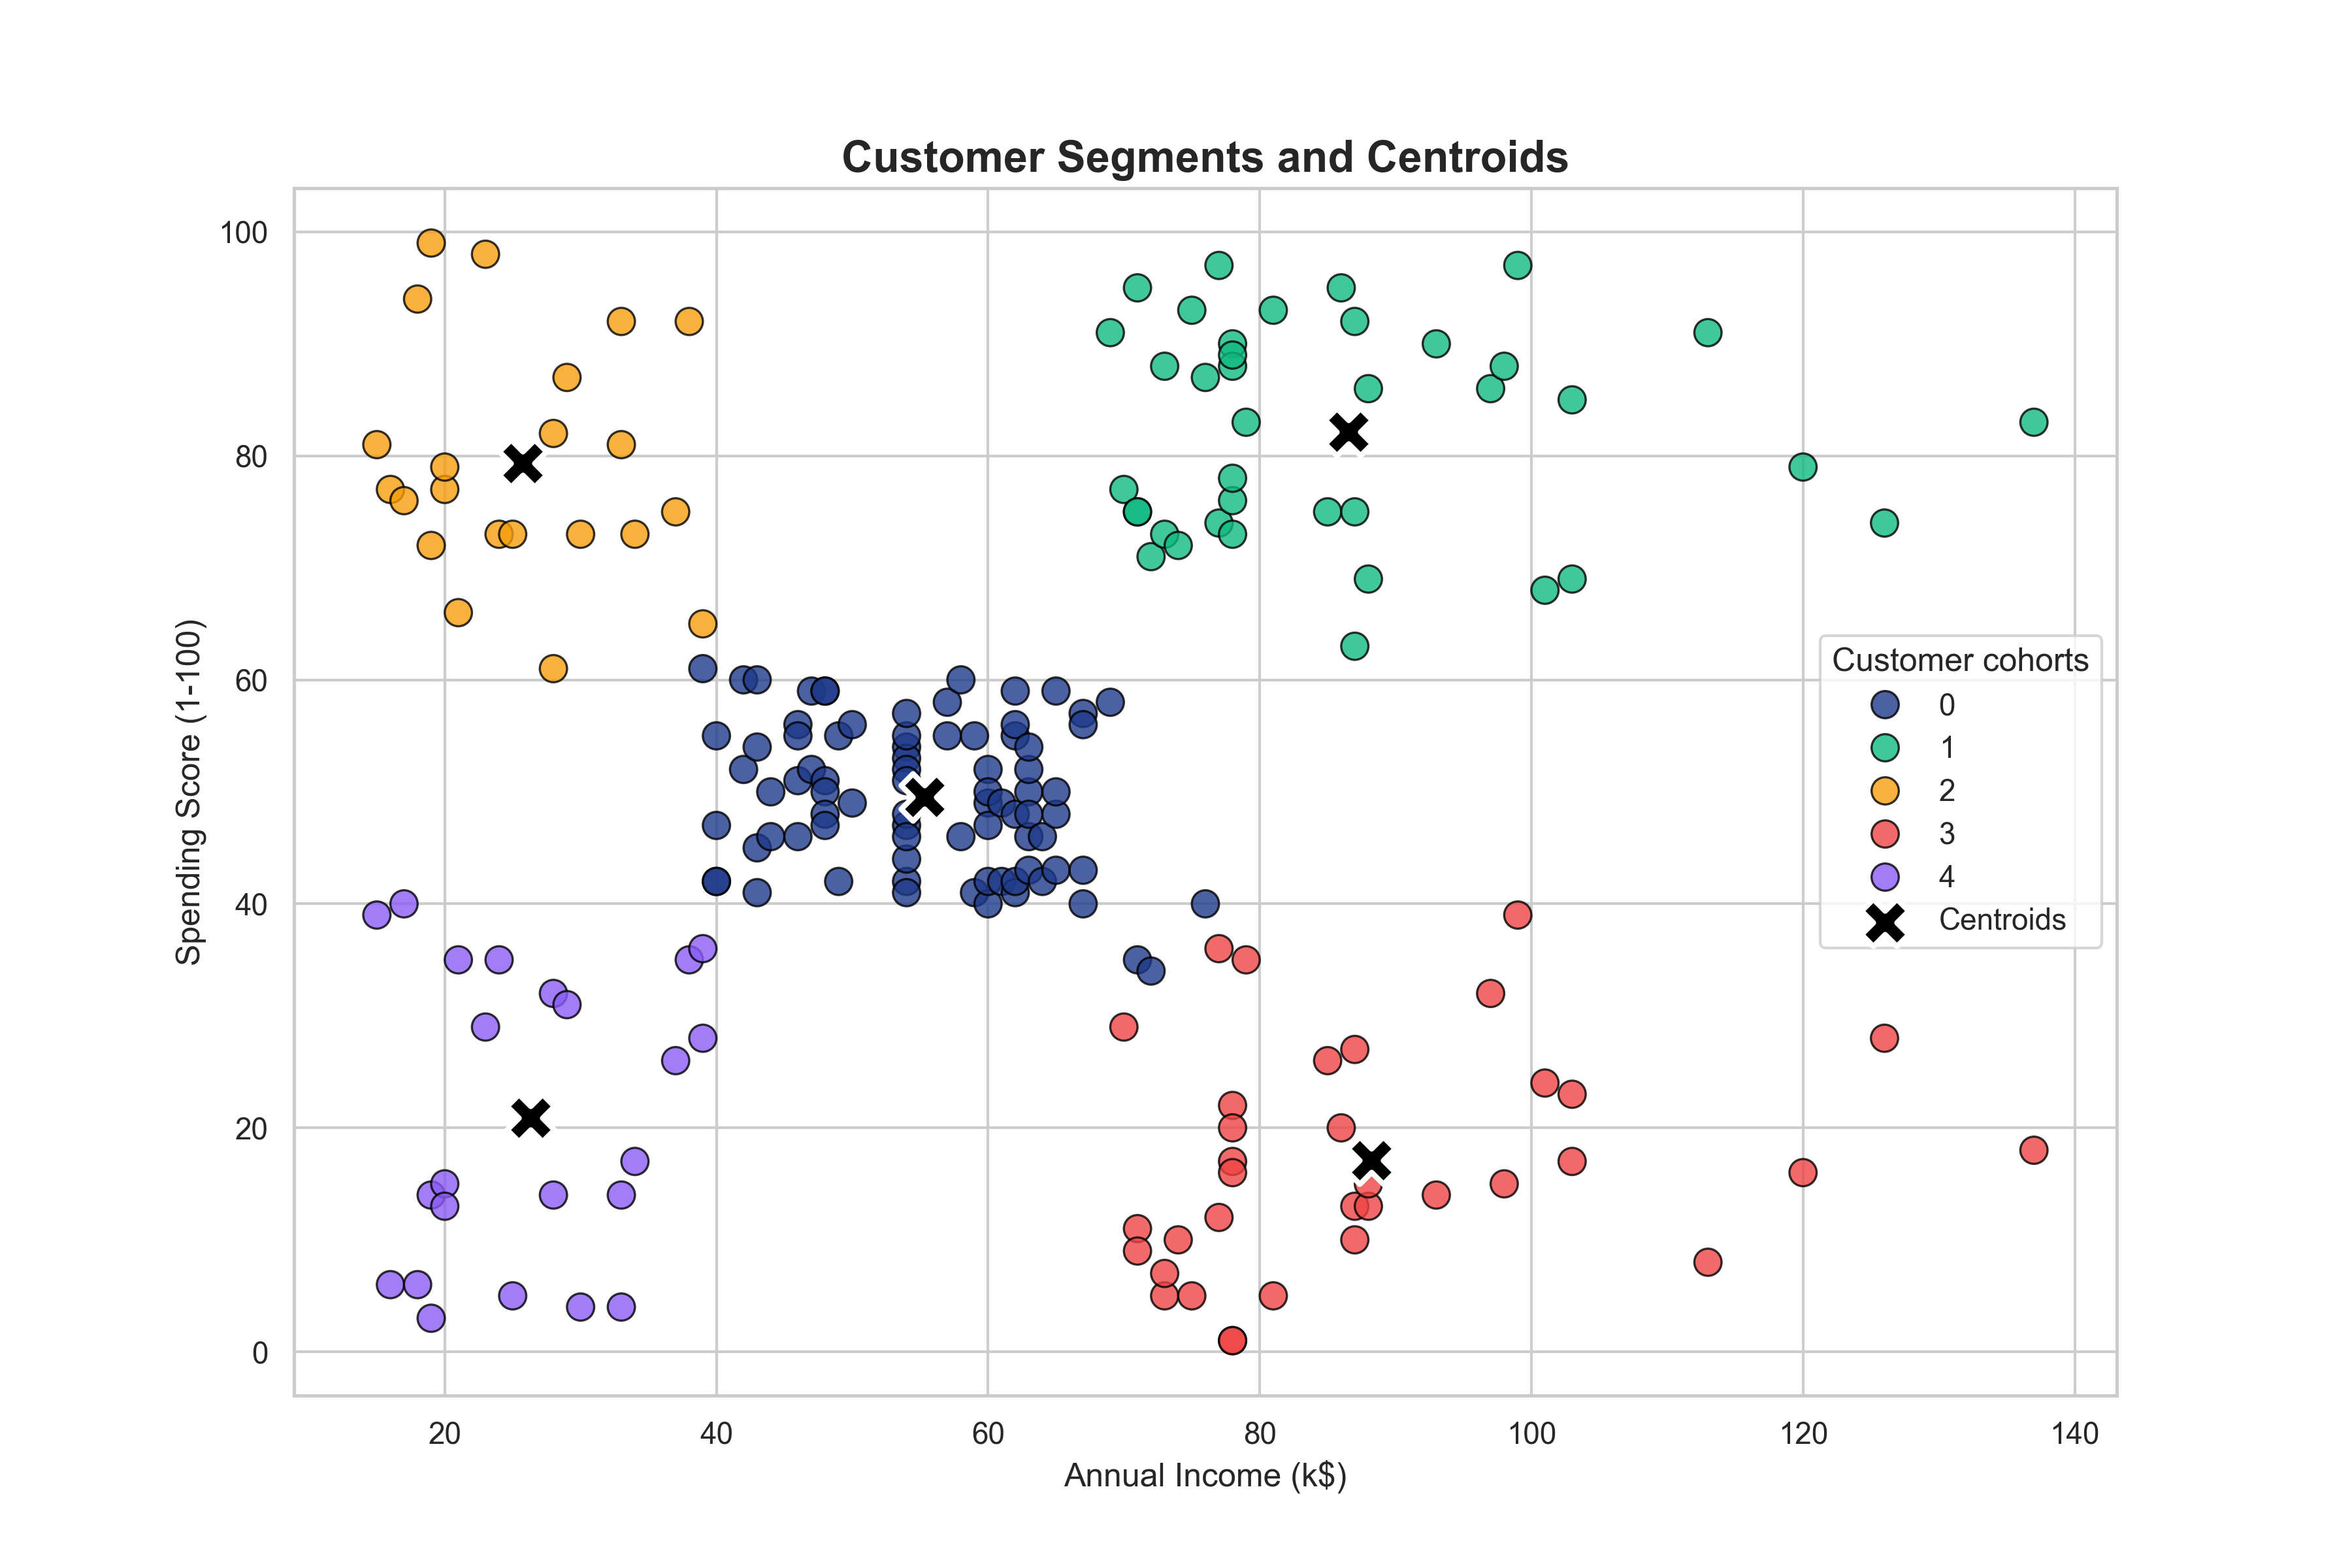
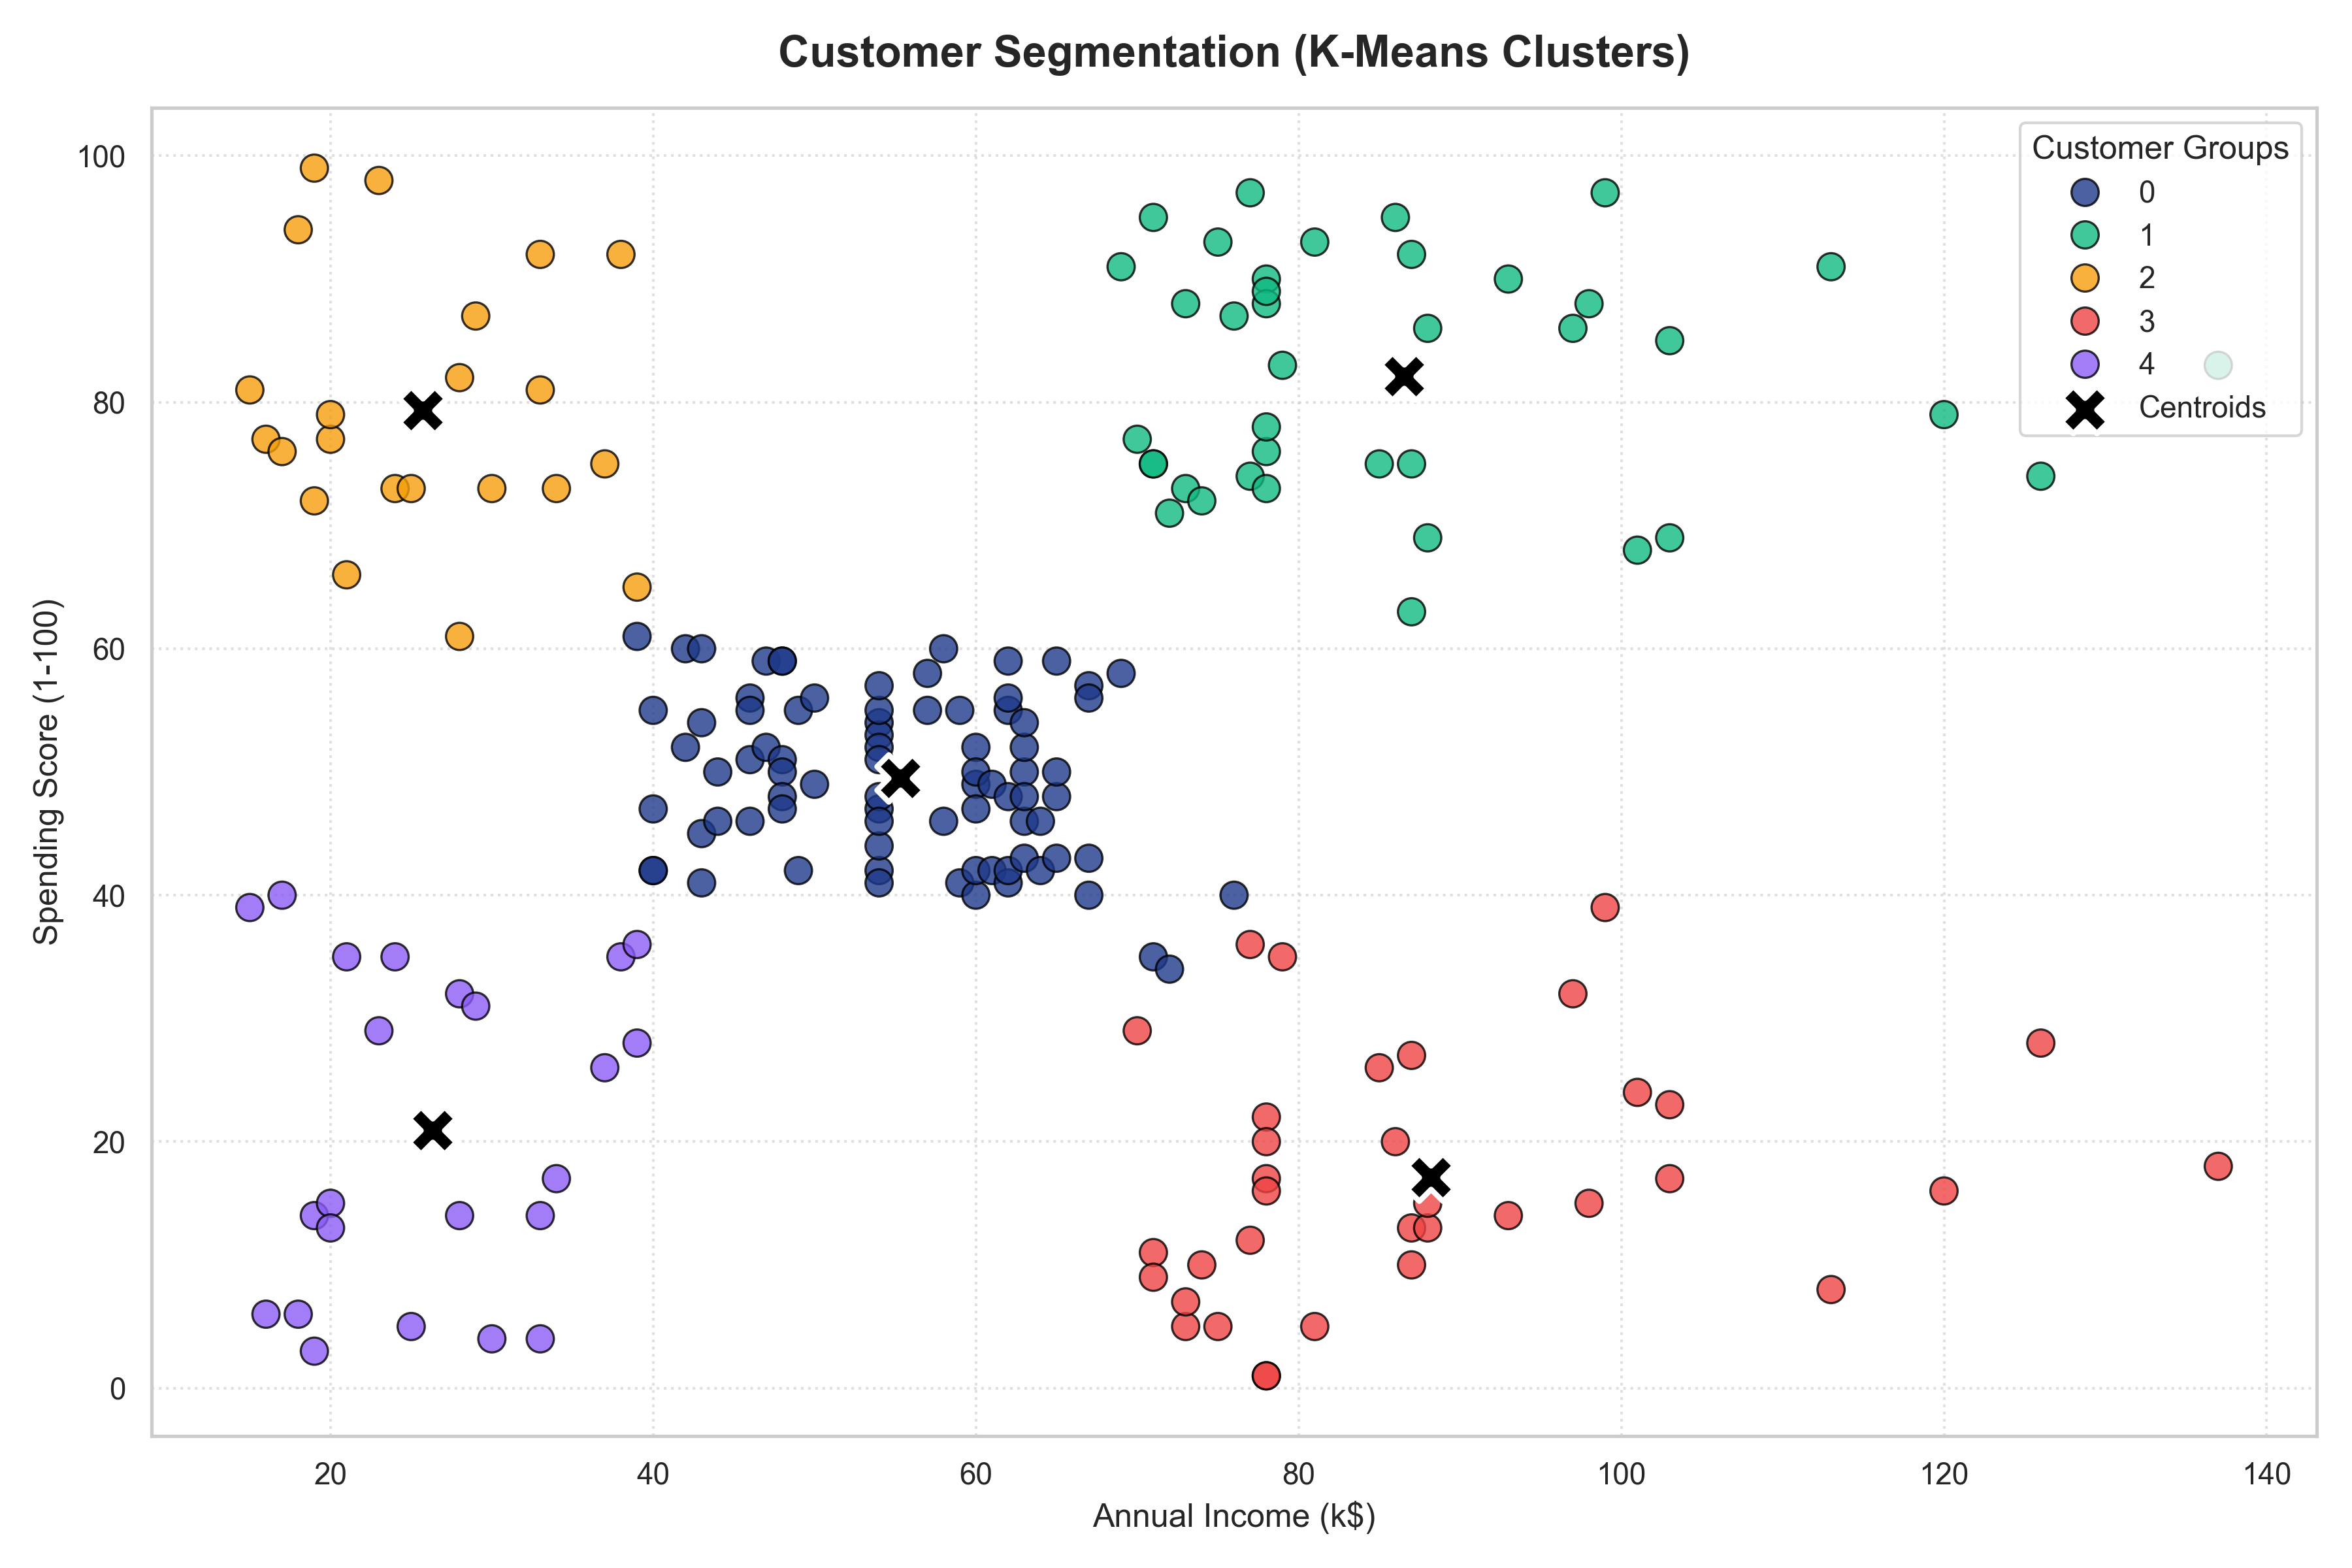
Create consolidated project details file and commit verified visualization assets

diff --git a/project_details.md b/project_details.md
@@ -1,0 +1,149 @@
+# Synent Technologies - Data Science Internship (Summer 2026)
+## Task 6: Customer Segmentation & Behavioral Analysis (Consolidated Project Details)
+
+> **Goal:** This document serves as a complete, self-contained reference detailing the dataset, code architecture, script functions, clustering logic, segment profiles, and environment configuration of the Customer Segmentation project. You can provide this file to any LLM/AI to immediately grant it full context for debugging, explaining, or writing extension features.
+
+---
+
+## 👤 Author Information
+- **Name:** Rudra Patel
+- **Internship ID:** `SYN/J2/IP806`
+- **Email:** `[email redacted]`
+- **LinkedIn Profile:** [Rudra Patel](https://www.linkedin.com/in/rudrapatel-cs)
+- **GitHub Profile:** [Rudra2986](https://www.github.com/Rudra2986)
+
+---
+
+## 📂 Project Directory Structure
+```
+Task-6-Customer-Segmentation/
+│
+├── data/
+│   ├── raw/                 # Contains raw Mall_Customers.csv
+│   │   └── Mall_Customers.csv
+│   └── processed/           # Contains cleaned and labeled datasets
+│       ├── cleaned_customers.csv
+│       └── segmented_customers.csv
+│
+├── notebooks/
+│   └── customer_segmentation.ipynb # Complete step-by-step notebook
+│
+├── src/                     # Core python pipeline modules
+│   ├── data_cleaning.py     # Check for nulls/duplicates & parse headers
+│   ├── feature_selection.py # Subsetting target dimensions
+│   ├── scaling.py           # Standardize features using StandardScaler
+│   ├── elbow_method.py      # Calculate WCSS & plot Elbow curve
+│   ├── kmeans_clustering.py # Train model & map cohort labels
+│   └── cluster_visualization.py # Generate 2D image and 3D HTML plot
+│
+├── reports/
+│   └── customer_clusters_3d.html # Interactive 3D HTML visualization
+│
+├── images/                  # Visual assets
+│   ├── elbow_method.png     # Line plot showing optimal K point
+│   └── customer_clusters_2d.png # Scatter plot showing segments & centroids
+│
+├── models/                  # Serialized ML assets
+│   └── kmeans_model.joblib  # Saved K-Means trained model weights
+│
+├── requirements.txt         # Project packages list
+├── README.md                # General readme overview
+└── project_details.md       # [This File] All-in-one AI context file
+```
+
+---
+
+## 📊 Dataset Specifications
+* **Dataset Name:** `Mall_Customers.csv` (Located under `data/raw/`)
+* **Shape:** $200$ rows, $5$ columns.
+* **Fields & Data Types:**
+  1. `CustomerID`: `int64` (Unique identifier per customer)
+  2. `Gender`: `object` (`Male` or `Female` categorical string)
+  3. `Age`: `int64` (Age of customer in years)
+  4. `Annual Income (k$)`: `int64` (Annual household income in thousands of dollars)
+  5. `Spending Score (1-100)`: `int64` (Score assigned by the mall based on purchase frequency/depth)
+
+---
+
+## ⚙️ Dependencies & Virtual Env
+The required modules in `requirements.txt` are:
+* `pandas` & `numpy` (Data manipulation)
+* `matplotlib` & `seaborn` (Static plotting)
+* `plotly` (Interactive 3D HTML graphs)
+* `scikit-learn` (StandardScaler and KMeans clustering algorithms)
+* `joblib` (Model serialization)
+
+---
+
+## 🛠️ Code Modules & Logic Explanations
+
+### 1. `src/data_cleaning.py`
+* **Purpose:** Inspects dataset health, nulls, duplicates, and standardizes structure.
+* **Key Functions:**
+  * `assess_dataset(df: pd.DataFrame) -> dict`: Returns row/col shape, null summaries, and duplicate metrics, printing an analytical summary.
+  * `clean_customer_data(df: pd.DataFrame) -> pd.DataFrame`: Removes duplicate records, drops null values, and strips whitespace from headers.
+* **Output:** Saves results to `data/processed/cleaned_customers.csv`.
+
+### 2. `src/feature_selection.py`
+* **Purpose:** Selects features of interest for spatial distance analysis.
+* **Key Function:**
+  * `select_clustering_features(df: pd.DataFrame, feature_columns: list) -> pd.DataFrame`: Extracts specific numeric dimensions (e.g. `['Annual Income (k$)', 'Spending Score (1-100)']`).
+
+### 3. `src/scaling.py`
+* **Purpose:** Standardizes columns to prevent features with wider ranges from distorting Euclidean distance values.
+* **Key Function:**
+  * `scale_features(df: pd.DataFrame) -> pd.DataFrame`: Applies `StandardScaler` from scikit-learn. Preserves feature headers inside a pandas DataFrame wrapper.
+
+### 4. `src/elbow_method.py`
+* **Purpose:** Solves the optimal number of clusters ($K$) using the Elbow Method.
+* **Key Calculations:**
+  * Runs K-Means across a cluster range of $K = 1$ to $10$.
+  * Calculates WCSS (Within-Cluster Sum of Squares) or Inertia for each $K$.
+  * Plots WCSS values vs. $K$ numbers. The point where the rate of decrease drops significantly represents the optimal cluster count.
+* **Output:** Saves the line plot as `images/elbow_method.png`.
+
+### 5. `src/kmeans_clustering.py`
+* **Purpose:** Fits the K-Means clustering algorithm to the standardized features and labels customers.
+* **Key Steps:**
+  * Trains a K-Means model (`n_clusters=5`, `init='k-means++'`, `random_state=42`).
+  * Serializes the model using `joblib.dump` to `models/kmeans_model.joblib`.
+  * Assigns cluster index numbers ($0$ to $4$) back to the unscaled customer dataset.
+* **Output:** Exports the labeled customer matrix to `data/processed/segmented_customers.csv`.
+
+### 6. `src/cluster_visualization.py`
+* **Purpose:** Visualizes customer segmentations.
+* **Key Functions:**
+  * `plot_2d_clusters(df: pd.DataFrame, output_dir: str)`: Plots Annual Income vs. Spending Score in a 2D scatter plot using a custom palette. Calculates unscaled coordinates of group centroids and overlays them as large black `X` marks. Saved as `images/customer_clusters_2d.png`.
+  * `plot_3d_interactive_clusters(df: pd.DataFrame, reports_dir: str)`: Uses Plotly Express to plot Age vs. Annual Income vs. Spending Score. Color-codes points by segment labels. Saved as `reports/customer_clusters_3d.html`.
+
+---
+
+## 🏆 Customer Cohorts & Insights
+Based on clustering ($K=5$), the customers are grouped into 5 strategic cohorts:
+1. **Cluster 0: Standard Group** (81 customers): Average income ($40\text{k}$-$70\text{k}$), average spending score ($40$-$60$). Target with standard campaigns.
+2. **Cluster 1: Champions** (39 customers): High income ($>70\text{k}$), high spending score ($>60$). Target with premium loyalty rewards.
+3. **Cluster 2: Low-Value Cohort** (22 customers): Low income ($<40\text{k}$), low spending score ($<40$). Target with budget-saving discounts.
+4. **Cluster 3: Careless Spenders** (35 customers): Low income ($<40\text{k}$), high spending score ($>60$). Target with high-frequency impulse deals.
+5. **Cluster 4: Conserving Spenders** (23 customers): High income ($>70\text{k}$), low spending score ($<40$). Target with catalog reminders highlighting product quality.
+
+---
+
+## 🤖 Instructions for AI Prompts
+If you want to feed this project to another AI, copy and paste this prompt:
+
+```text
+You are an expert Machine Learning Engineer. I am providing you with the project details of my "Customer Segmentation" project (Task 6).
+
+Here is the setup:
+- Raw dataset is located in 'data/raw/Mall_Customers.csv'.
+- Preprocessed dataset is saved by 'src/data_cleaning.py' to 'data/processed/cleaned_customers.csv'.
+- Features of interest are standardized using 'src/scaling.py'.
+- Optimal cluster count was determined as K=5 using 'src/elbow_method.py'.
+- K-Means is trained by 'src/kmeans_clustering.py', saving the model binary to 'models/kmeans_model.joblib' and outputting 'data/processed/segmented_customers.csv'.
+- Cluster plots are generated by 'src/cluster_visualization.py'.
+
+Please read this configuration and assist me with:
+1. Writing scripts or extending the model (e.g. comparing K-Means with DBSCAN or Hierarchical clustering).
+2. Triage/debugging of machine learning pipeline issues.
+3. Refactoring visualization functions.
+```